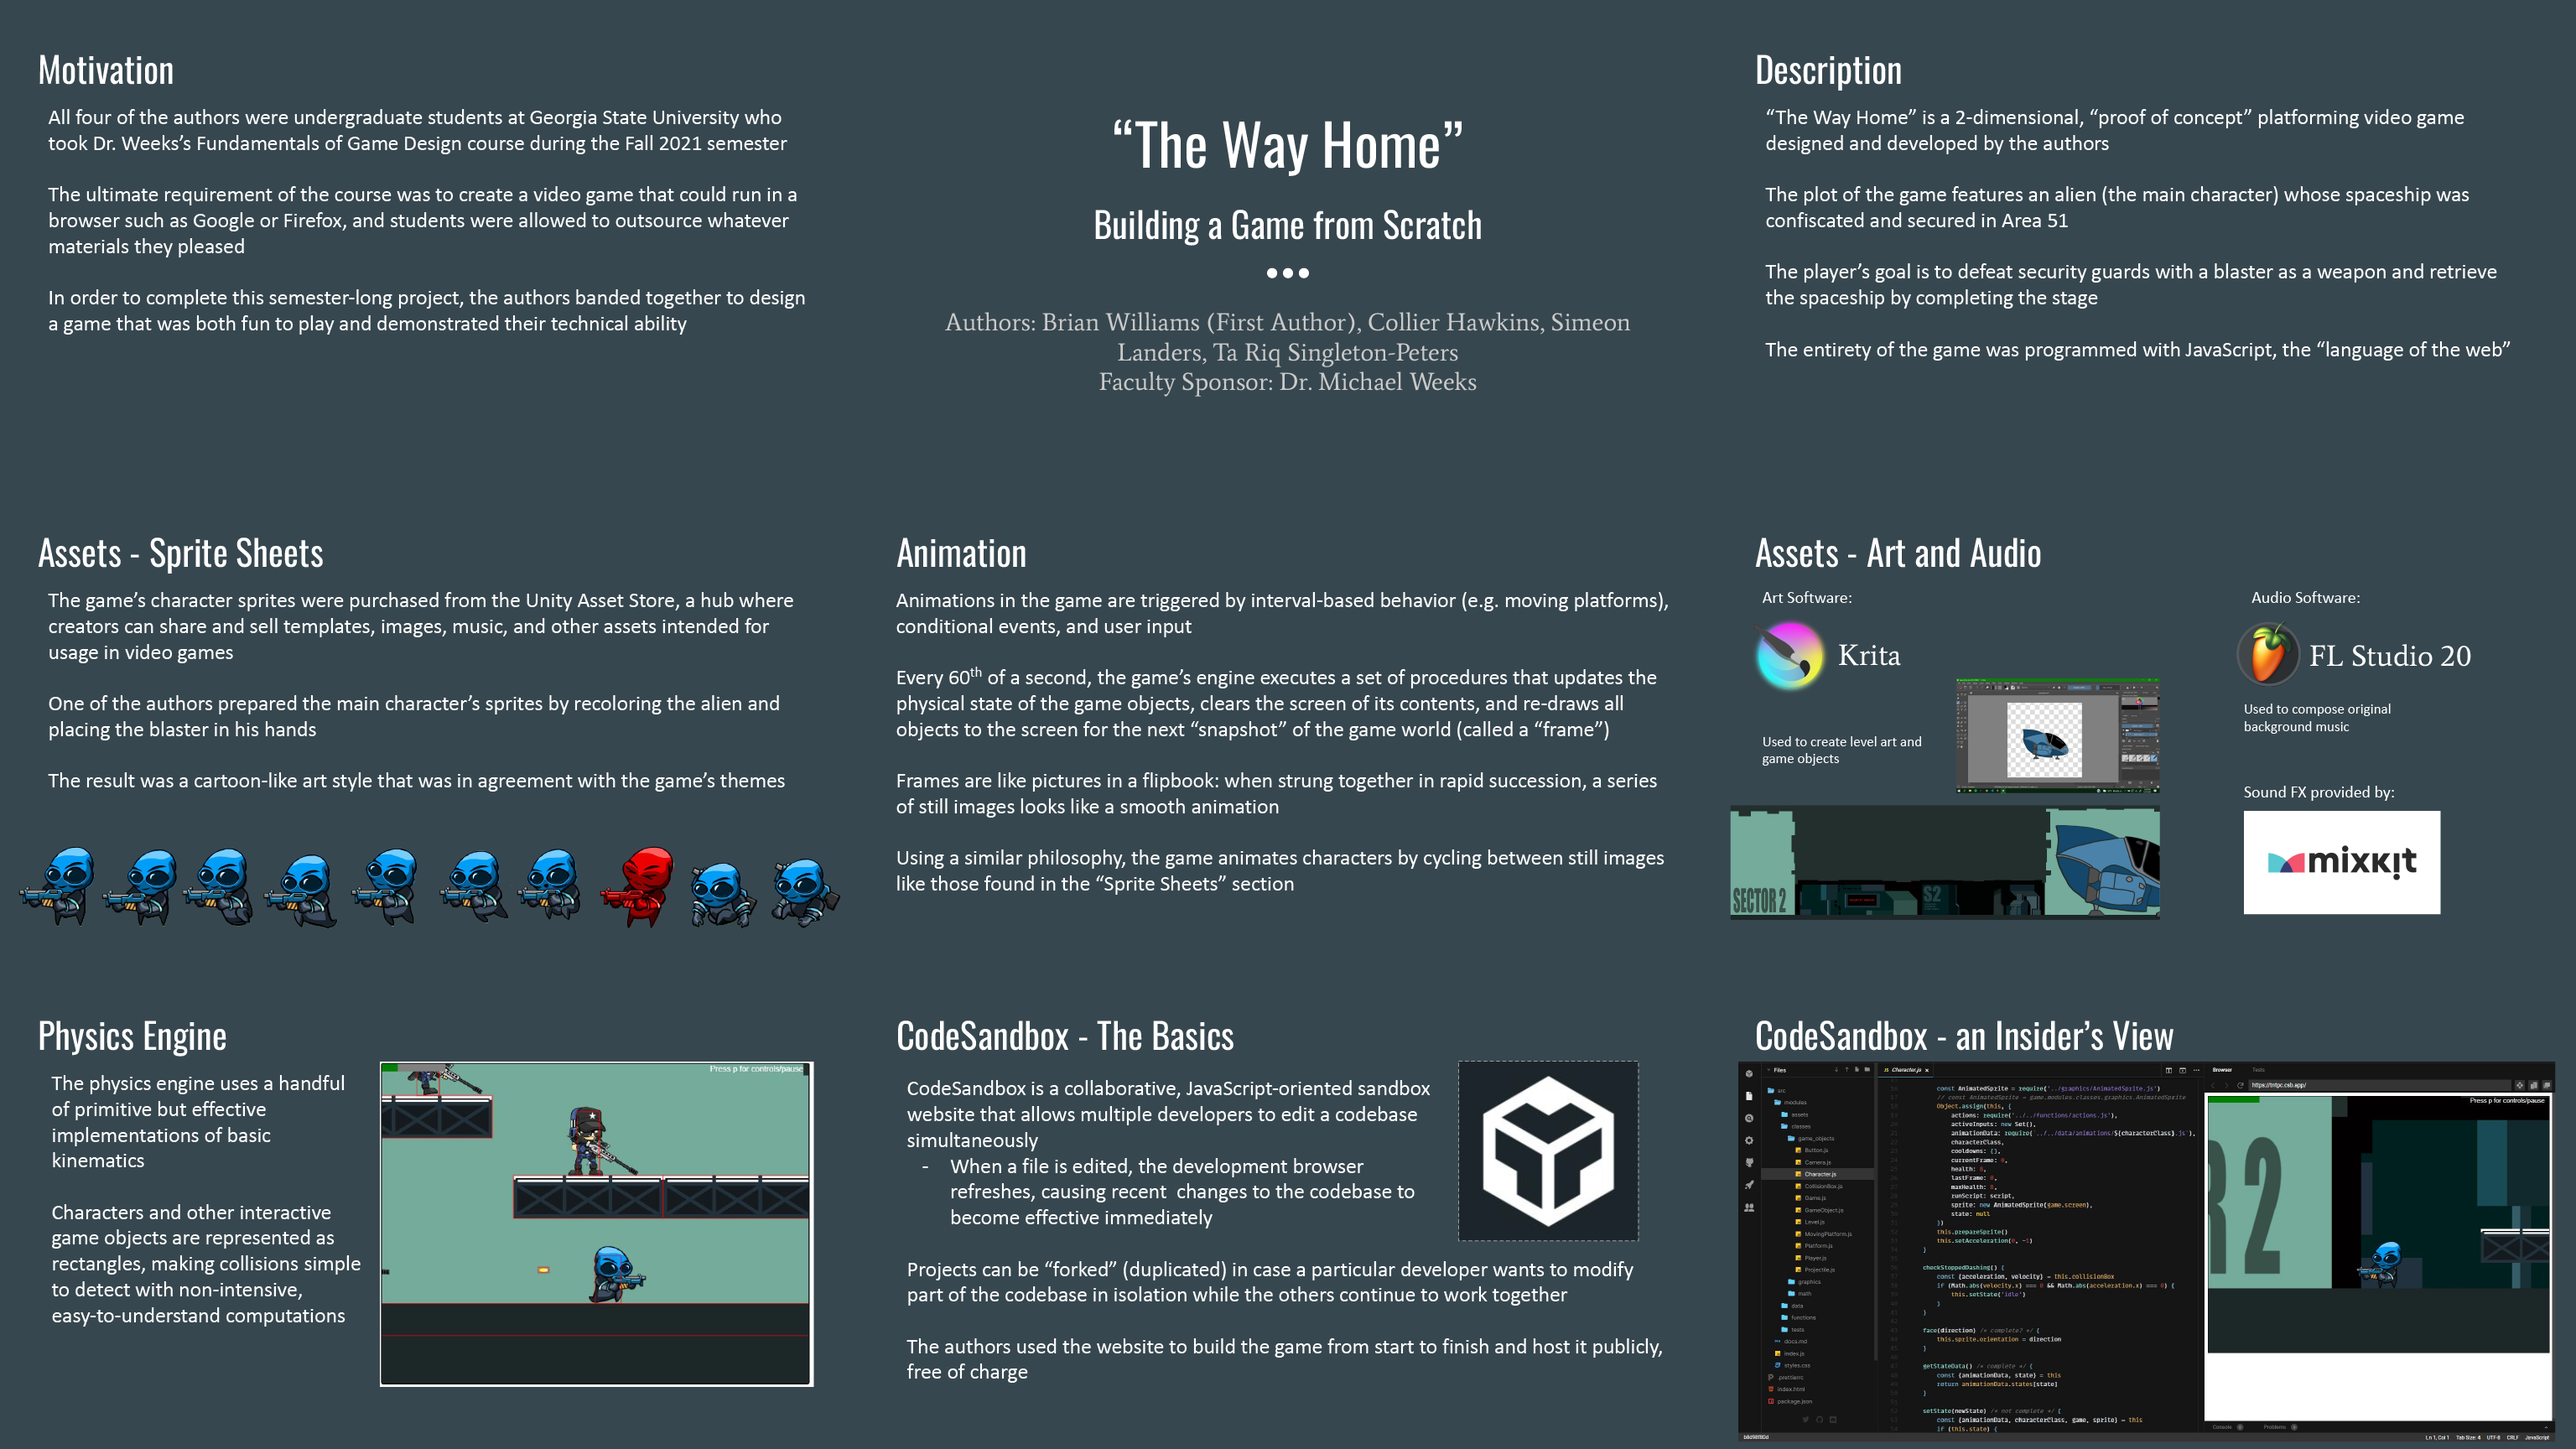
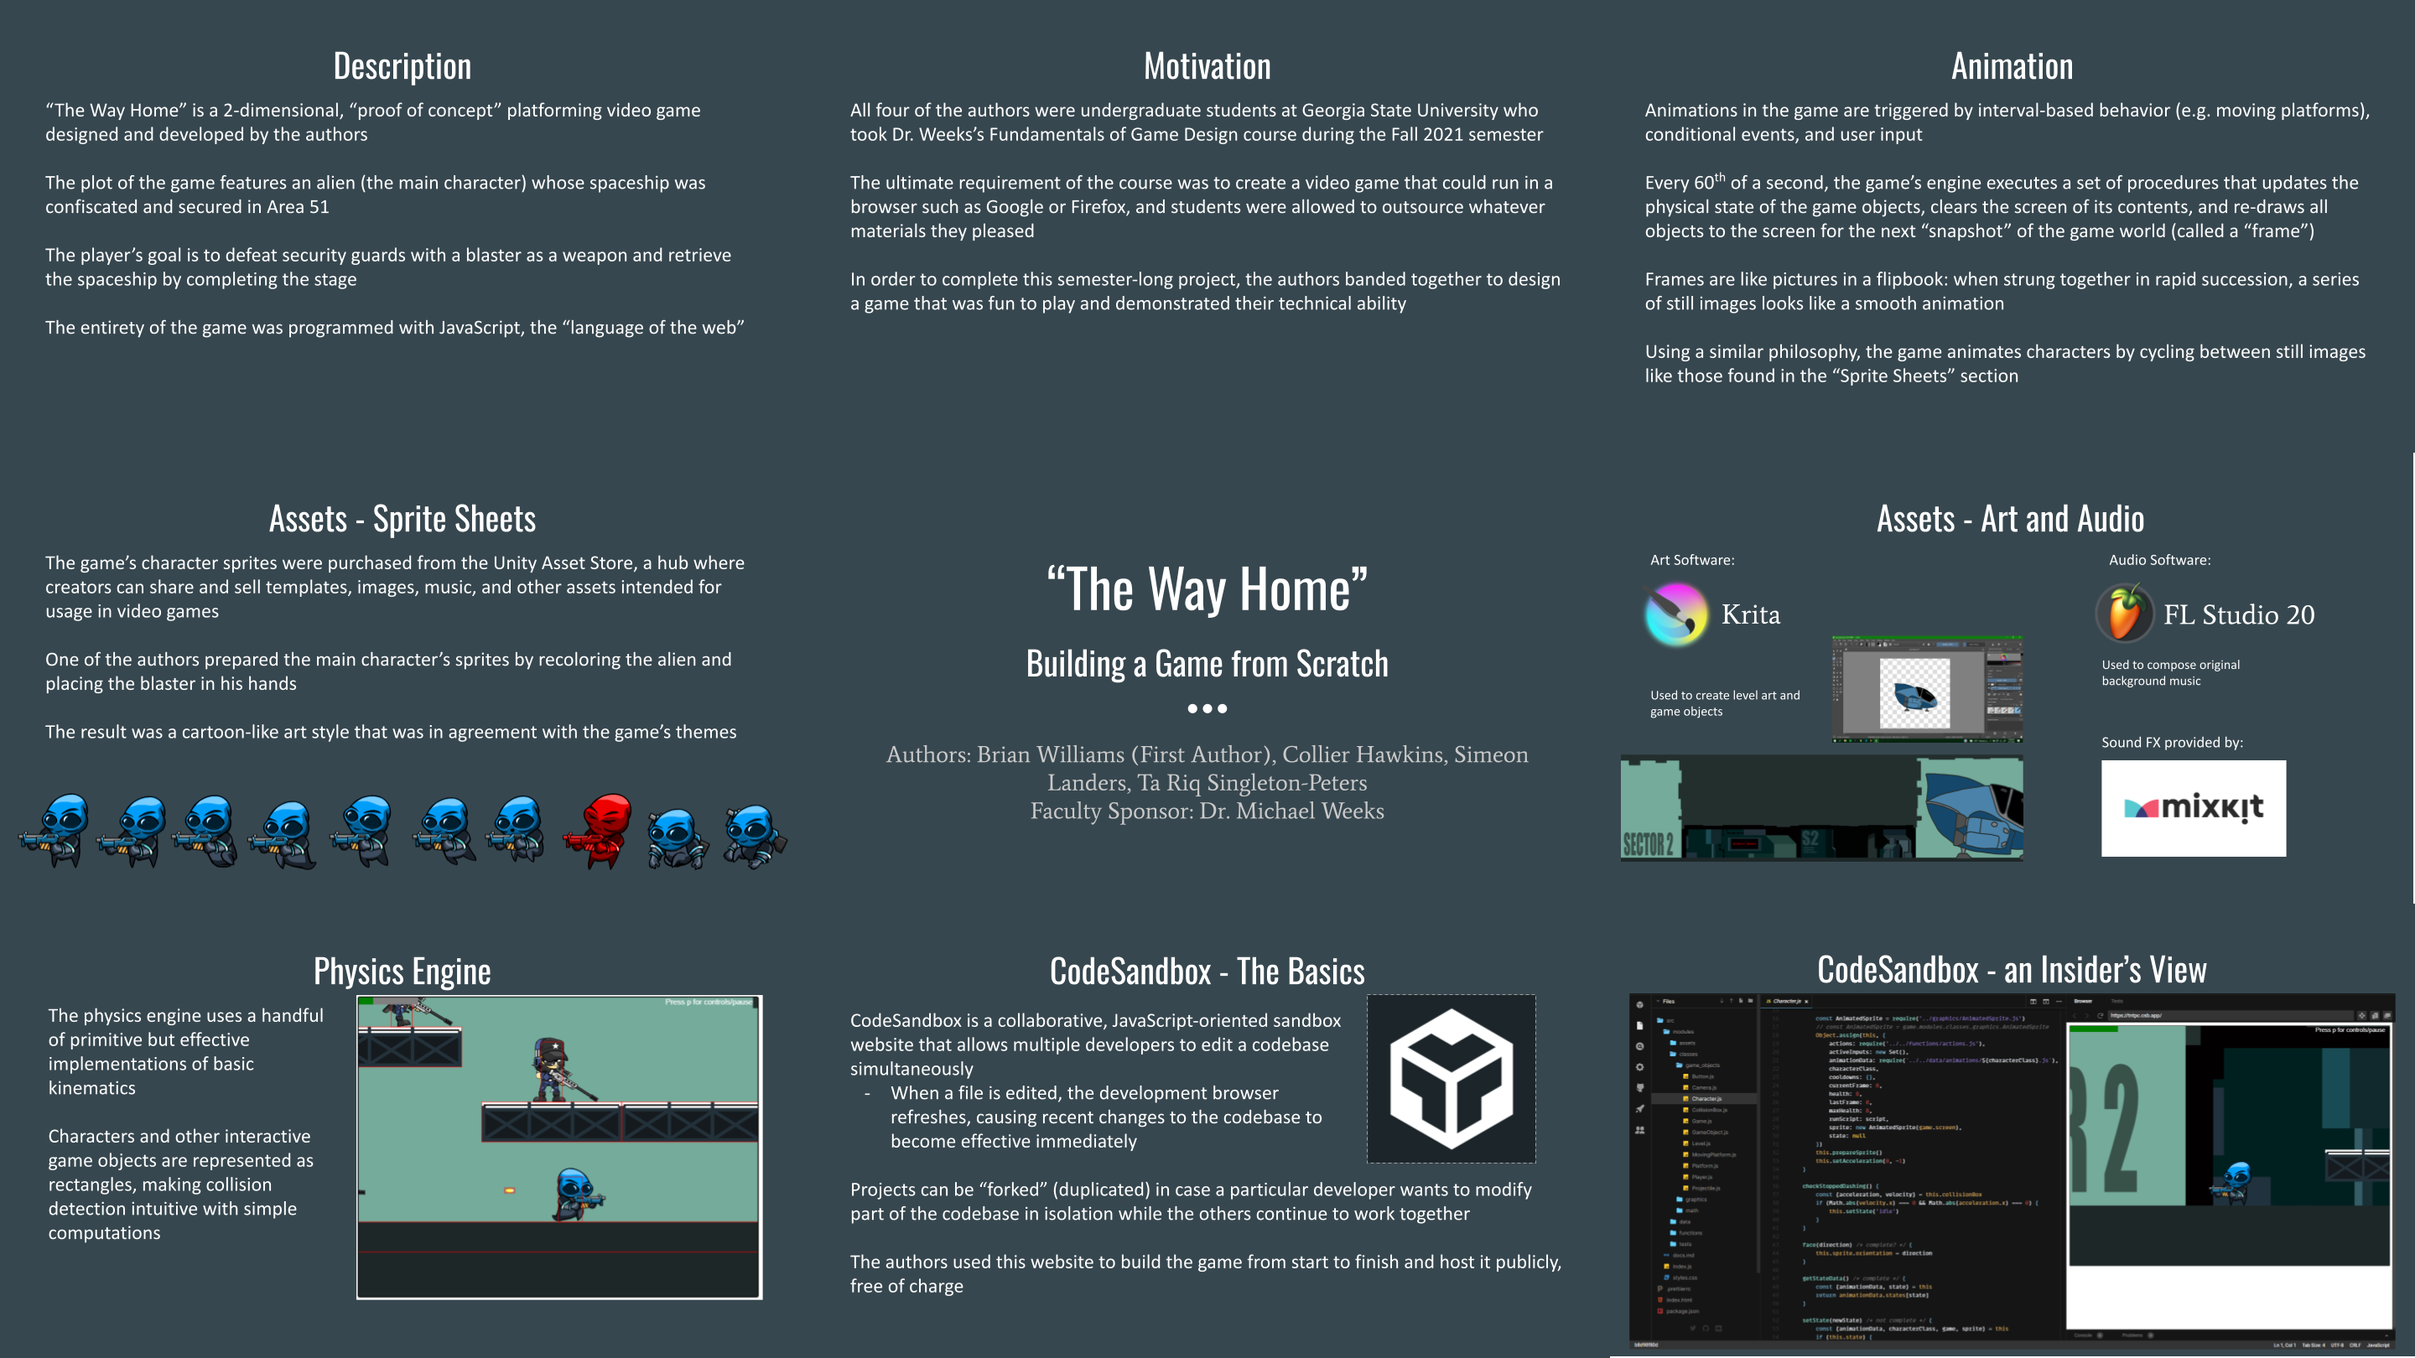
2025-08-16 updates (#7)
* Update README.md

* Update README.md

* Update README.md

* Update README.md

* Update README.md

* Updated poster

diff --git a/README.md b/README.md
@@ -1,5 +1,6 @@
 # The Way Home
-_The Way Home_ is a browser-based, 2d-platforming video game created during the Fall 2021 semester at Georgia State University for Dr. Michael Weeks's Fundamentals of Game Design (CSC 4821) course.  
+_The Way Home_ is a browser-based, 2d-platforming video game created during the Fall 2021 semester at Georgia State University for Dr. Michael Weeks's Fundamentals of Game Design (CSC 4821) course.
+
 This project was a collaborative effort between four undergraduate [students](#authors--contributions) and was submitted for the course's final assignment along with a [video](https://youtu.be/Dy2eZXNsMgg) that was presented to the class on the final day of the course.
 
 ### Play the game [here](https://g9fr8w.csb.app/)!
@@ -14,19 +15,20 @@ A poster was presented at the Georgia State Undergraduate Research Conference du
 ![image failed to load](./GSURC_Poster.png)
 
 ### Authors & Contributions
-Collier Hawkins
+**Collier Hawkins**
 - Music
 - Acquisition of sound effects
 - Miscellaneous art and sprite editing
+- Video editing
 
-Simeon Landers
+**Simeon Landers**
 - Acquisition of sprite art
 - Game level design and implementation
 
-Ta Riq Singleton-Peters
+**Ta Riq Singleton-Peters**
 - Game level design and implementation
 
-Brian Williams (lead programmer)
+**Brian Williams** (lead programmer)
 - Physics engine
 - User interface engine
 - Keyboard input handling
